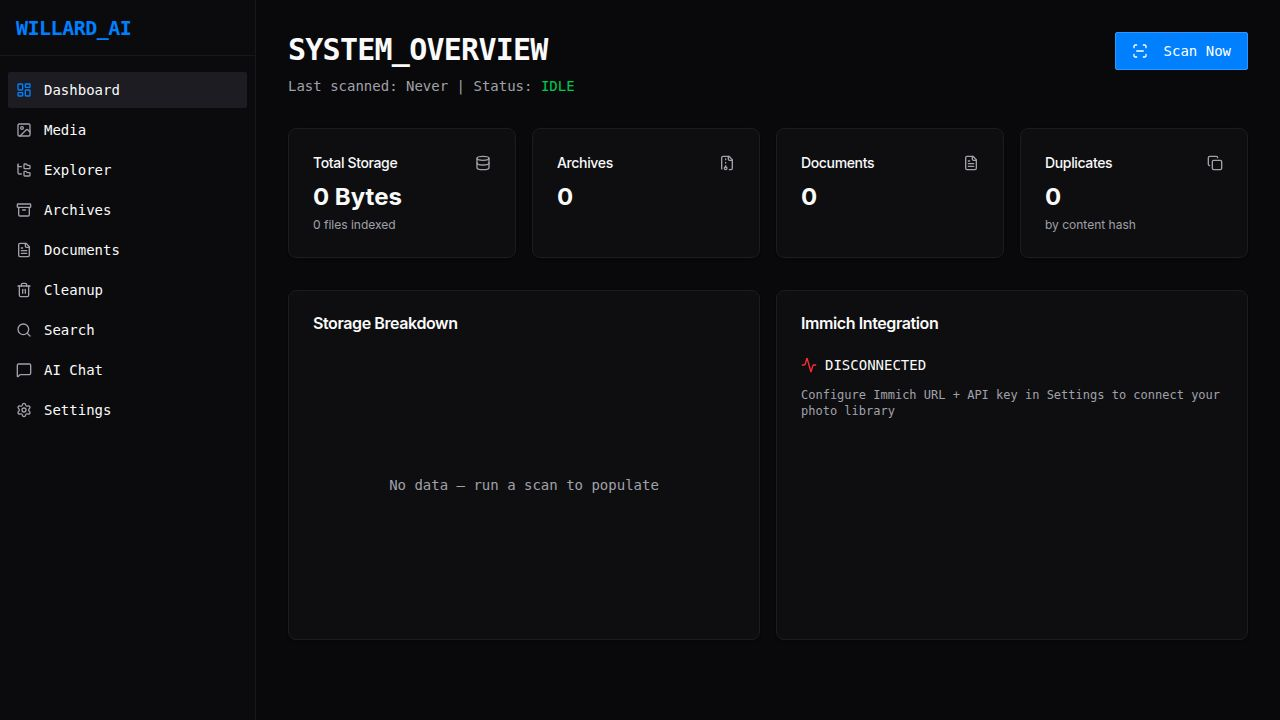
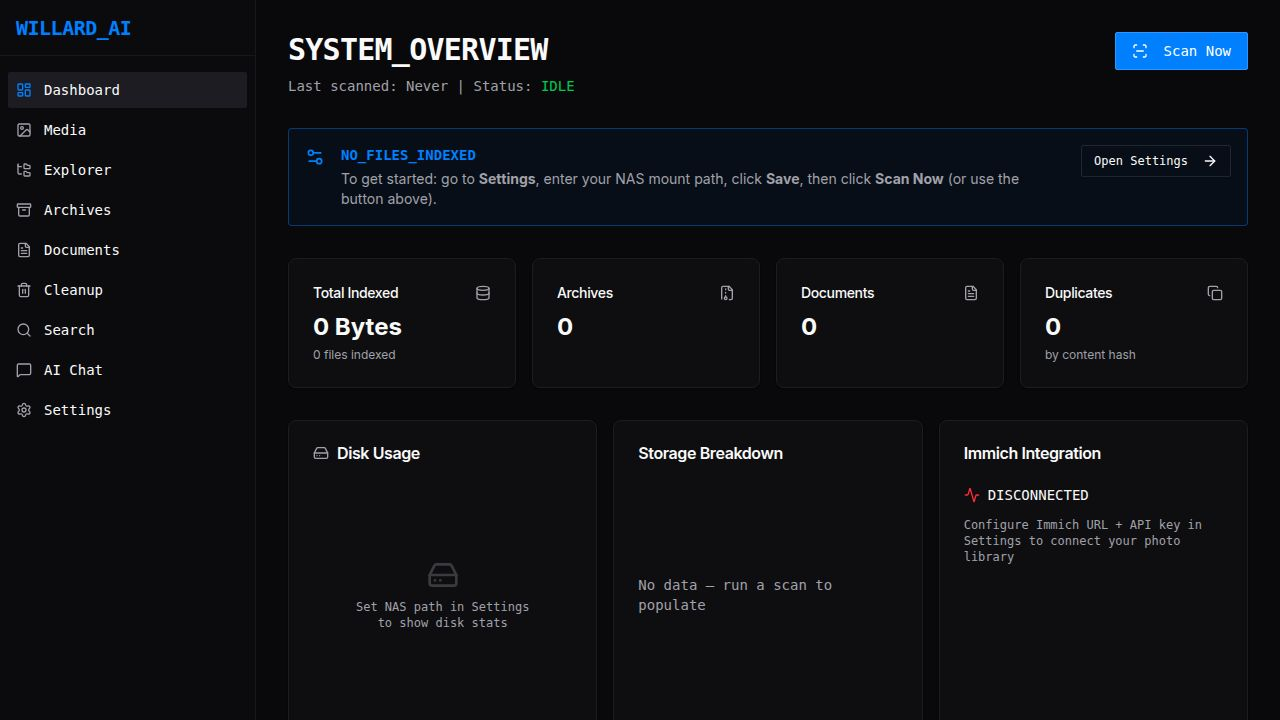
Task #3: Archive peek — type badges, auto-peek UX, all formats save counts
Changes:
- DB schema (lib/db/src/schema/archives.ts): Added photo_count, video_count,
  document_count integer columns to archivesTable
- DB: Applied schema migration via drizzle-kit push
- Backend (artifacts/api-server/src/routes/archives.ts): All three format
  branches (ZIP, TAR, 7z/RAR/ISO/CAB) now compute and persist photoCount,
  videoCount, documentCount to the DB on peek
- Backend (artifacts/api-server/src/routes/scan.ts): peekAllArchives now also
  saves photo/video/doc counts when auto-peeking during a scan
- OpenAPI spec (lib/api-spec/openapi.yaml): Added photoCount, videoCount,
  documentCount to ArchiveFile and ArchiveDetail schemas
- Codegen: Regenerated api-client-react with updated types
- Frontend (artifacts/willard-ai/src/pages/archives.tsx):
  - TypeCountBadges component shows 📷/🎬/📄 icon+count on each peeked row
  - Peek dialog auto-triggers peek via useEffect when archive is pending
    (eliminates the two-click "Peek" → "Peek Inside" flow)
  - Dialog header shows photo/video/doc count summary when peeked
  - Re-peek button added to dialog for already-peeked archives
  - Fixed wrong "Only ZIP archives can be inspected" message → lists all
    supported formats: ZIP, RAR, 7z, TAR, ISO, CAB, GZ, BZ2, XZ
  - Spinner shown while auto-peek is in progress
  - Error state with Retry button shown when peek fails

diff --git a/artifacts/willard-ai/src/pages/archives.tsx b/artifacts/willard-ai/src/pages/archives.tsx
@@ -1,7 +1,7 @@
-import { useState } from "react";
+import { useState, useEffect } from "react";
 import { useListArchives, getListArchivesQueryKey, usePeekArchive, useGetArchive } from "@workspace/api-client-react";
 import { formatBytes, formatDate } from "@/lib/format";
-import { Archive, Lock, Layers, Eye, File, Folder, Image, Video, FileText, Package, Filter } from "lucide-react";
+import { Archive, Lock, Layers, Eye, File, Folder, Image, Video, FileText, Package, Filter, RefreshCw } from "lucide-react";
 import { Skeleton } from "@/components/ui/skeleton";
 import { Table, TableBody, TableCell, TableHead, TableHeader, TableRow } from "@/components/ui/table";
 import { Button } from "@/components/ui/button";
@@ -21,6 +21,30 @@ function fileIcon(fileType: string) {
   }
 }
 
+function TypeCountBadges({ photoCount, videoCount, documentCount }: {
+  photoCount?: number | null;
+  videoCount?: number | null;
+  documentCount?: number | null;
+}) {
+  const badges = [
+    photoCount != null && photoCount > 0 && { icon: <Image className="w-2.5 h-2.5" />, count: photoCount, color: "text-blue-400" },
+    videoCount != null && videoCount > 0 && { icon: <Video className="w-2.5 h-2.5" />, count: videoCount, color: "text-purple-400" },
+    documentCount != null && documentCount > 0 && { icon: <FileText className="w-2.5 h-2.5" />, count: documentCount, color: "text-amber-400" },
+  ].filter(Boolean) as { icon: React.ReactNode; count: number; color: string }[];
+
+  if (badges.length === 0) return null;
+
+  return (
+    <div className="flex gap-1.5 mt-0.5">
+      {badges.map((b, i) => (
+        <span key={i} className={`inline-flex items-center gap-0.5 text-[10px] font-mono ${b.color}`}>
+          {b.icon}{b.count.toLocaleString()}
+        </span>
+      ))}
+    </div>
+  );
+}
+
 function ArchivePeekDialog({ archiveId, onClose }: { archiveId: number; onClose: () => void }) {
   const queryClient = useQueryClient();
   const { data: archiveData, isLoading: archiveLoading } = useGetArchive(archiveId);
@@ -35,6 +59,16 @@ function ArchivePeekDialog({ archiveId, onClose }: { archiveId: number; onClose:
   const entries = (archiveData?.peekEntries as any[]) ?? [];
   const hasPeeked = archiveData?.peekStatus === "peeked";
   const isUnsupported = archiveData?.peekStatus === "unsupported";
+
+  useEffect(() => {
+    if (!archiveLoading && !hasPeeked && !isUnsupported && !peekMutation.isPending && !peekMutation.isError && archiveData) {
+      peekMutation.mutate({ id: archiveId });
+    }
+  }, [archiveLoading, hasPeeked, isUnsupported, archiveData]);
+
+  const photoCount = entries.filter((e: any) => !e.isDirectory && e.fileType === "image").length;
+  const videoCount = entries.filter((e: any) => !e.isDirectory && e.fileType === "video").length;
+  const documentCount = entries.filter((e: any) => !e.isDirectory && e.fileType === "document").length;
 
   return (
     <Dialog open onOpenChange={(open) => !open && onClose()}>
@@ -51,6 +85,15 @@ function ArchivePeekDialog({ archiveId, onClose }: { archiveId: number; onClose:
               {archiveData.estimatedExtractionSize != null && archiveData.estimatedExtractionSize > 0 && (
                 <span>~{formatBytes(archiveData.estimatedExtractionSize)} extracted</span>
               )}
+              {hasPeeked && photoCount > 0 && (
+                <span className="text-blue-400 flex items-center gap-1"><Image className="w-3 h-3" /> {photoCount} photos</span>
+              )}
+              {hasPeeked && videoCount > 0 && (
+                <span className="text-purple-400 flex items-center gap-1"><Video className="w-3 h-3" /> {videoCount} videos</span>
+              )}
+              {hasPeeked && documentCount > 0 && (
+                <span className="text-amber-400 flex items-center gap-1"><FileText className="w-3 h-3" /> {documentCount} docs</span>
+              )}
               {archiveData.isPasswordProtected && (
                 <span className="text-destructive flex items-center gap-1"><Lock className="w-3 h-3" /> Encrypted</span>
               )}
@@ -65,43 +108,59 @@ function ArchivePeekDialog({ archiveId, onClose }: { archiveId: number; onClose:
             <div className="flex flex-col items-center justify-center py-8 gap-2 text-muted-foreground">
               <Archive className="w-10 h-10 opacity-30" />
               <p className="text-sm font-mono">Format not supported for peek</p>
-              <p className="text-xs text-center">{(archiveData as any)?.unsupportedReason ?? "Only ZIP archives can be inspected without extraction"}</p>
+              <p className="text-xs text-center opacity-70">Supported formats: ZIP, RAR, 7z, TAR, ISO, CAB, GZ, BZ2, XZ</p>
             </div>
           )}
-          {!hasPeeked && !isUnsupported && !archiveLoading && (
+          {!hasPeeked && !isUnsupported && (peekMutation.isPending || archiveLoading) && (
+            <div className="flex flex-col items-center justify-center py-8 gap-3 text-muted-foreground">
+              <RefreshCw className="w-8 h-8 opacity-40 animate-spin" />
+              <p className="text-sm font-mono">Reading archive…</p>
+            </div>
+          )}
+          {!hasPeeked && !isUnsupported && !peekMutation.isPending && !archiveLoading && peekMutation.isError && (
             <div className="flex flex-col items-center justify-center py-8 gap-3 text-muted-foreground">
               <Archive className="w-10 h-10 opacity-30" />
-              <p className="text-sm font-mono">Archive not yet inspected</p>
-              <Button size="sm" onClick={() => peekMutation.mutate({ id: archiveId })} disabled={peekMutation.isPending}>
-                {peekMutation.isPending ? "Reading..." : "Peek Inside"}
+              <p className="text-sm font-mono text-destructive">Failed to read archive</p>
+              <p className="text-xs text-muted-foreground">File may be inaccessible or corrupted</p>
+              <Button size="sm" variant="outline" onClick={() => peekMutation.mutate({ id: archiveId })}>
+                Retry
               </Button>
-              {peekMutation.isError && <p className="text-xs text-destructive">Failed to peek — file may be inaccessible</p>}
             </div>
           )}
-          {archiveLoading && (
-            <div className="space-y-2 p-2">{[...Array(5)].map((_, i) => <Skeleton key={i} className="h-8 w-full" />)}</div>
-          )}
           {hasPeeked && entries.length === 0 && (
-            <p className="text-sm text-muted-foreground font-mono text-center py-8">Archive is empty or could not be read</p>
+            <div className="flex flex-col items-center justify-center py-8 gap-2 text-muted-foreground">
+              <Archive className="w-10 h-10 opacity-30" />
+              <p className="text-sm text-muted-foreground font-mono text-center">Archive is empty or entries could not be listed</p>
+              <Button size="sm" variant="outline" className="mt-1" onClick={() => peekMutation.mutate({ id: archiveId })}>
+                <RefreshCw className="w-3.5 h-3.5 mr-1.5" /> Re-peek
+              </Button>
+            </div>
           )}
           {hasPeeked && entries.length > 0 && (
-            <ScrollArea className="flex-1 rounded-md border">
-              <div className="font-mono text-xs">
-                <div className="grid grid-cols-[1.5rem_1fr_auto_auto] gap-x-3 px-3 py-2 border-b text-muted-foreground uppercase tracking-wider">
-                  <span></span><span>Path</span><span>Type</span><span className="text-right">Size</span>
-                </div>
-                {entries.map((entry: any, i: number) => (
-                  <div key={i} className="grid grid-cols-[1.5rem_1fr_auto_auto] gap-x-3 px-3 py-1.5 hover:bg-muted/40 items-center border-b border-border/30">
-                    <span className="flex items-center justify-center">
-                      {entry.isDirectory ? <Folder className="w-3.5 h-3.5 text-muted-foreground" /> : fileIcon(entry.fileType)}
-                    </span>
-                    <span className="truncate text-foreground/80" title={entry.path}>{entry.path}</span>
-                    <span className="text-muted-foreground">{entry.fileType ?? "—"}</span>
-                    <span className="text-right text-muted-foreground">{entry.isDirectory ? "—" : formatBytes(entry.sizeBytes ?? 0)}</span>
-                  </div>
-                ))}
+            <>
+              <div className="flex justify-end">
+                <Button size="sm" variant="ghost" className="h-7 px-2 text-xs font-mono" onClick={() => peekMutation.mutate({ id: archiveId })} disabled={peekMutation.isPending}>
+                  <RefreshCw className="w-3 h-3 mr-1.5" /> Re-peek
+                </Button>
               </div>
-            </ScrollArea>
+              <ScrollArea className="flex-1 rounded-md border">
+                <div className="font-mono text-xs">
+                  <div className="grid grid-cols-[1.5rem_1fr_auto_auto] gap-x-3 px-3 py-2 border-b text-muted-foreground uppercase tracking-wider">
+                    <span></span><span>Path</span><span>Type</span><span className="text-right">Size</span>
+                  </div>
+                  {entries.map((entry: any, i: number) => (
+                    <div key={i} className="grid grid-cols-[1.5rem_1fr_auto_auto] gap-x-3 px-3 py-1.5 hover:bg-muted/40 items-center border-b border-border/30">
+                      <span className="flex items-center justify-center">
+                        {entry.isDirectory ? <Folder className="w-3.5 h-3.5 text-muted-foreground" /> : fileIcon(entry.fileType)}
+                      </span>
+                      <span className="truncate text-foreground/80" title={entry.path}>{entry.path}</span>
+                      <span className="text-muted-foreground">{entry.fileType ?? "—"}</span>
+                      <span className="text-right text-muted-foreground">{entry.isDirectory ? "—" : formatBytes(entry.sizeBytes ?? 0)}</span>
+                    </div>
+                  ))}
+                </div>
+              </ScrollArea>
+            </>
           )}
         </div>
       </DialogContent>
@@ -234,7 +293,7 @@ export default function Archives() {
                 <TableCell className="font-medium">
                   <div className="flex flex-col gap-0.5">
                     <span className="truncate max-w-[180px]">{archive.filename}</span>
-                    <div className="flex gap-1.5">
+                    <div className="flex flex-wrap gap-1.5">
                       {archive.isPasswordProtected && (
                         <span className="inline-flex items-center text-[10px] bg-destructive/10 text-destructive px-1 py-0.5 rounded">
                           <Lock className="w-2.5 h-2.5 mr-0.5" /> Encrypted
@@ -246,6 +305,13 @@ export default function Archives() {
                         </span>
                       )}
                     </div>
+                    {archive.peekStatus === "peeked" && (
+                      <TypeCountBadges
+                        photoCount={archive.photoCount}
+                        videoCount={archive.videoCount}
+                        documentCount={archive.documentCount}
+                      />
+                    )}
                   </div>
                 </TableCell>
                 <TableCell>

diff --git a/artifacts/api-server/src/routes/archives.ts b/artifacts/api-server/src/routes/archives.ts
@@ -204,6 +204,9 @@ router.post("/archives/:id/peek", async (req, res) => {
       await db.update(archivesTable).set({
         peekStatus: "peeked",
         containedFileCount: entries.length,
+        photoCount,
+        videoCount,
+        documentCount,
         isPasswordProtected,
         hasNestedArchives,
         estimatedExtractionSize,
@@ -251,10 +254,16 @@ router.post("/archives/:id/peek", async (req, res) => {
       );
       const estimatedExtractionSize = entries.reduce((s, e) => s + (e.sizeBytes ?? 0), 0);
       const category = computeCategoryFromContent(entries, false);
+      const tarPhotoCount = entries.filter(e => !e.isDirectory && e.fileType === "image").length;
+      const tarVideoCount = entries.filter(e => !e.isDirectory && e.fileType === "video").length;
+      const tarDocCount = entries.filter(e => !e.isDirectory && e.fileType === "document").length;
 
       await db.update(archivesTable).set({
         peekStatus: "peeked",
         containedFileCount: entries.length,
+        photoCount: tarPhotoCount,
+        videoCount: tarVideoCount,
+        documentCount: tarDocCount,
         isPasswordProtected: false,
         hasNestedArchives,
         estimatedExtractionSize,
@@ -265,7 +274,8 @@ router.post("/archives/:id/peek", async (req, res) => {
       res.json({
         archiveId: id, filename: archive.filename, entries, totalEntries: entries.length,
         isPasswordProtected: false, hasNestedArchives, estimatedExtractionSizeBytes: estimatedExtractionSize,
-        category, format: `tar/${rawExt}`,
+        category, photoCount: tarPhotoCount, videoCount: tarVideoCount, documentCount: tarDocCount,
+        format: `tar/${rawExt}`,
       });
       return;
     }
@@ -280,10 +290,16 @@ router.post("/archives/:id/peek", async (req, res) => {
       });
       const estimatedExtractionSize = entries.reduce((s, e) => s + (e.sizeBytes ?? 0), 0);
       const category = computeCategoryFromContent(entries, isPasswordProtected);
+      const szPhotoCount = entries.filter(e => !e.isDirectory && e.fileType === "image").length;
+      const szVideoCount = entries.filter(e => !e.isDirectory && e.fileType === "video").length;
+      const szDocCount = entries.filter(e => !e.isDirectory && e.fileType === "document").length;
 
       await db.update(archivesTable).set({
         peekStatus: "peeked",
         containedFileCount: entries.length,
+        photoCount: szPhotoCount,
+        videoCount: szVideoCount,
+        documentCount: szDocCount,
         isPasswordProtected,
         hasNestedArchives,
         estimatedExtractionSize,
@@ -294,7 +310,7 @@ router.post("/archives/:id/peek", async (req, res) => {
       res.json({
         archiveId: id, filename: archive.filename, entries, totalEntries: entries.length,
         isPasswordProtected, hasNestedArchives, estimatedExtractionSizeBytes: estimatedExtractionSize,
-        category, format,
+        category, photoCount: szPhotoCount, videoCount: szVideoCount, documentCount: szDocCount, format,
         ...(error && entries.length === 0 ? { notes: `Could not list entries: ${error}` } : {}),
       });
       return;

diff --git a/artifacts/api-server/src/routes/scan.ts b/artifacts/api-server/src/routes/scan.ts
@@ -325,9 +325,16 @@ async function peekAllArchives(jobId: number) {
     try {
       const { entries, isPasswordProtected, hasNestedArchives, estimatedExtractionSize, category } =
         await peekArchiveFile(archive.path, archive.filename);
+      const files = entries.filter((e: any) => !e.isDirectory);
+      const scanPhotoCount = files.filter((e: any) => e.fileType === "image").length;
+      const scanVideoCount = files.filter((e: any) => e.fileType === "video").length;
+      const scanDocCount = files.filter((e: any) => e.fileType === "document").length;
       await db.update(archivesTable).set({
         peekStatus: "peeked",
         containedFileCount: entries.length,
+        photoCount: scanPhotoCount,
+        videoCount: scanVideoCount,
+        documentCount: scanDocCount,
         isPasswordProtected,
         hasNestedArchives,
         estimatedExtractionSize,

diff --git a/lib/db/src/schema/archives.ts b/lib/db/src/schema/archives.ts
@@ -10,6 +10,9 @@ export const archivesTable = pgTable("archives", {
   modifiedAt: timestamp("modified_at"),
   folder: text("folder").notNull().default(""),
   containedFileCount: integer("contained_file_count"),
+  photoCount: integer("photo_count"),
+  videoCount: integer("video_count"),
+  documentCount: integer("document_count"),
   category: text("category").notNull().default("general"),
   peekStatus: text("peek_status").notNull().default("pending"),
   isPasswordProtected: boolean("is_password_protected").notNull().default(false),